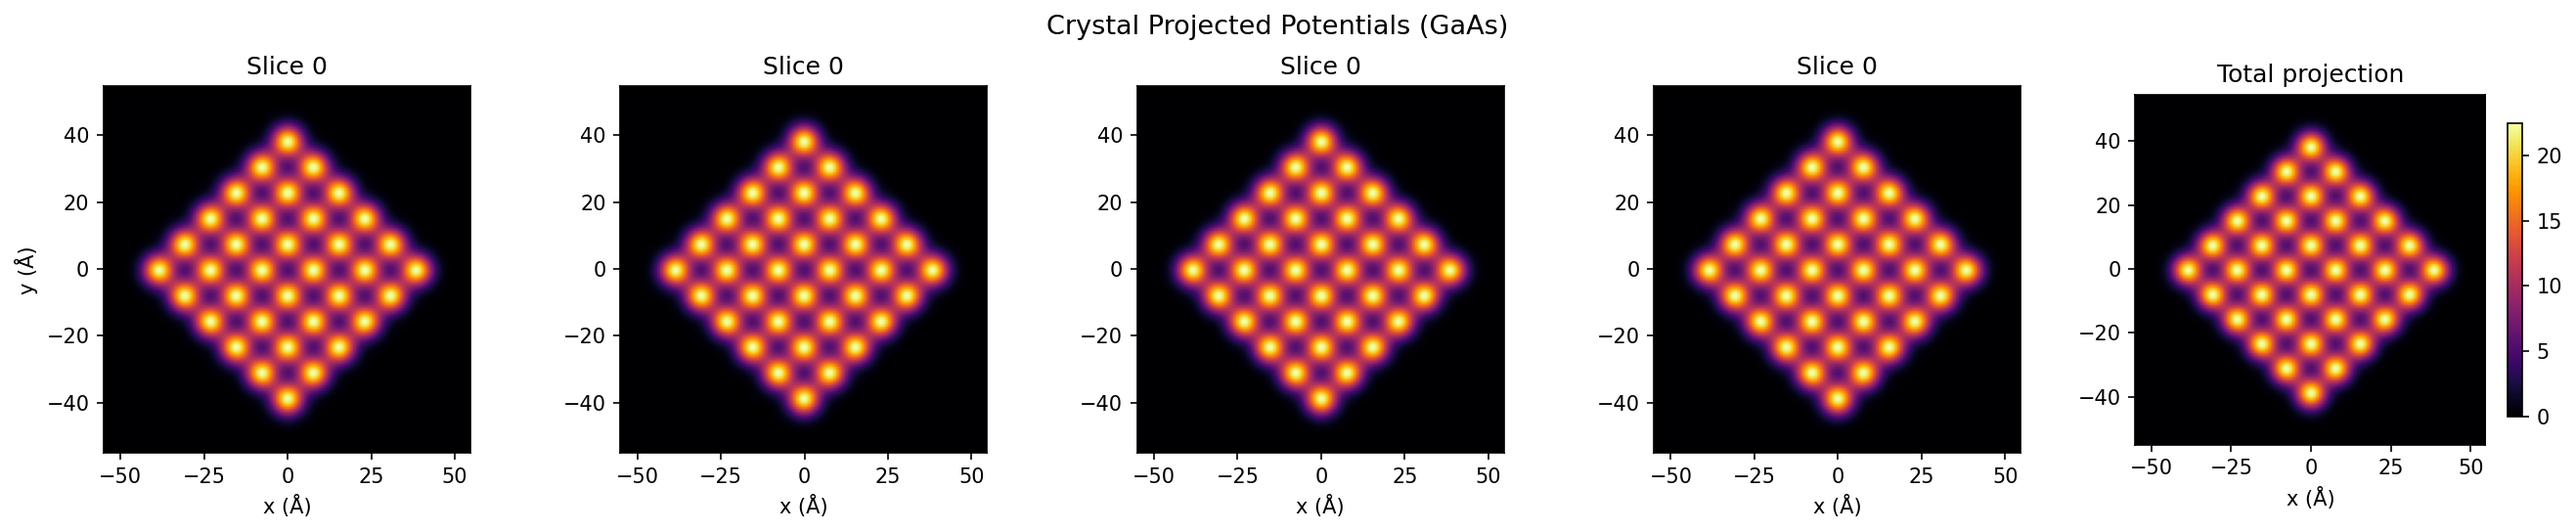
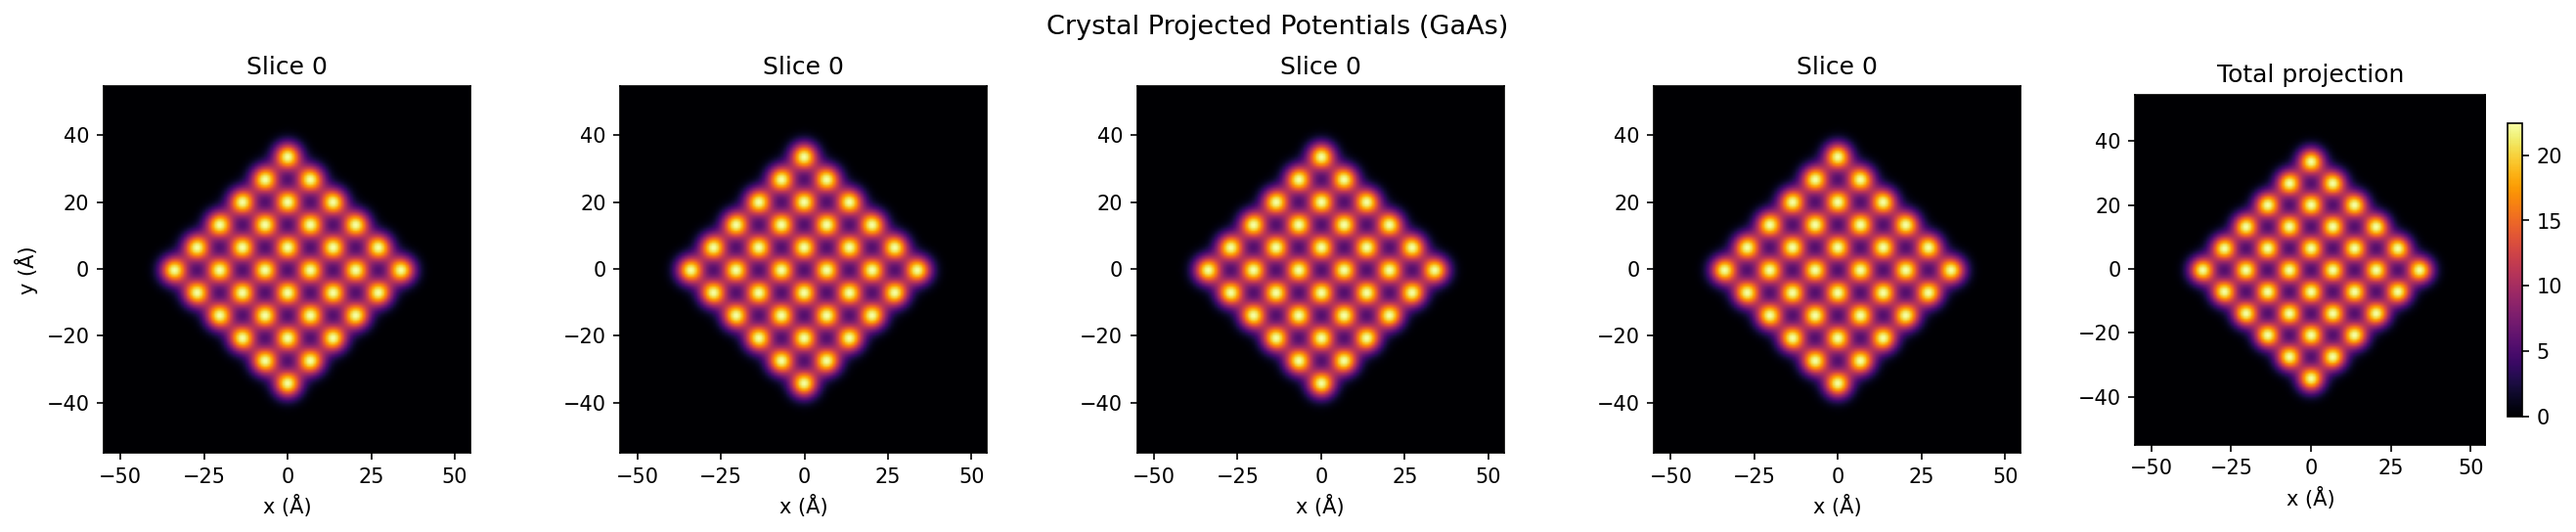
Fix missing corner atoms in rotated-lattice reconstruction
Previously the 4 corners of the rotated 6×6 diamond (atoms 0, 5, 30, 35
in the tiled supercell) sat right at the scan_range boundary, each
getting only a handful of probe placements, so they reconstructed faintly
and the image looked like a 5×5 inner grid.

Fix: shrink margin 0.9 → 0.8 (sample fills 80% of FOV instead of 90%)
and pad scan_range by 1.5·spacing past sample_half_span instead of
0.8·sample_half_span + 1·spacing. Outer atoms now have probe placements
on both sides, not just inside.

Result: all 36 atoms of the rotated 6×6 lattice clearly reconstructed,
including corner atoms. The full 11-row diamond (1,2,3,4,5,6,5,4,3,2,1
atoms per row) is visible with phase magnitudes matching truth.

https://claude.ai/code/session_01Ryk8yeo17Rwh7g5p1TgKVU

diff --git a/tutorial.py b/tutorial.py
@@ -96,8 +96,11 @@ _n_atoms_eff = 1 + (_n_atoms_side - 1) * _rot_scale  # effective side for fittin
 
 # Solve jointly so sample-span + probe-patch ≤ margin·FOV. The probe patch
 # is set to ~2× the in-plane atom spacing (so each probe position touches
-# several atoms) but no smaller than `patch_min_A`.
-_margin = 0.9
+# several atoms) but no smaller than `patch_min_A`. `margin` is kept
+# conservative (0.8) so the outer atoms sit well inside the scan-safe
+# region — near the scan boundary corners get few probe placements and
+# reconstruct weakly.
+_margin = 0.8
 _patch_min = DEMO["patch_min_A"]
 # Case A: patch clamps to 2·spacing → (n_eff+1)·spacing ≤ margin·FOV
 _spacing_A = _margin * _fov / (_n_atoms_eff + 1)
@@ -123,13 +126,15 @@ n_atoms_total = DEMO["nx"] * DEMO["ny"] * DEMO["nz"] * ATOMS_PER_CELL[_structure
 
 patch_size = int(np.ceil(_patch_A / DEMO["dx"] / 2.0) * 2)
 
-# Scan range: cover the atoms, but stay inside the patch-safe region
-# (|scan_pos| + patch_half ≤ N·dx/2). Rotated lattice bounding box
-# grows by `_rot_scale` along each axis.
+# Scan range: cover the atoms with margin, but stay inside the
+# patch-safe region (|scan_pos| + patch_half ≤ N·dx/2). Rotated
+# lattice bounding box grows by `_rot_scale` along each axis. Pad by
+# an extra full spacing so the outermost atoms get scan positions on
+# BOTH sides (otherwise they're under-sampled and reconstruct weakly).
 _sample_half_span = (_n_atoms_side - 1) / 2.0 * _in_plane_spacing * _rot_scale
 _scan_max = (DEMO["N"] / 2 - patch_size / 2) * DEMO["dx"]
 scan_range = min(
-    DEMO["scan_fill"] * _sample_half_span + _in_plane_spacing,
+    _sample_half_span + 1.5 * _in_plane_spacing,
     0.98 * _scan_max,
 )
 
